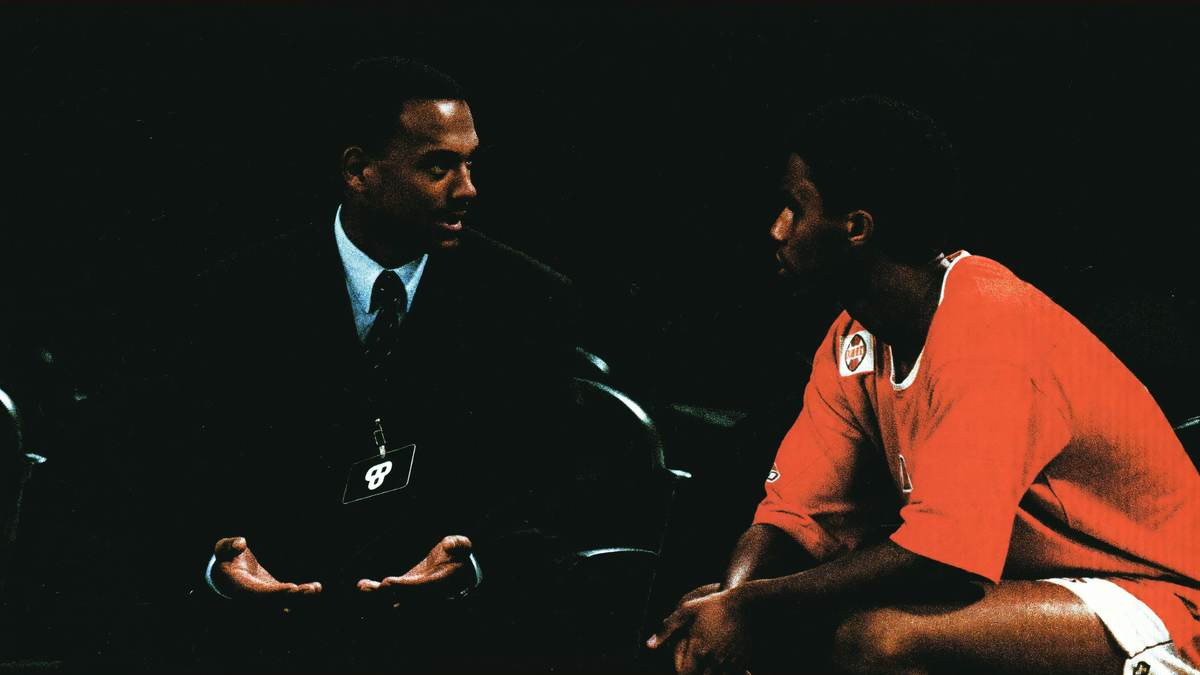
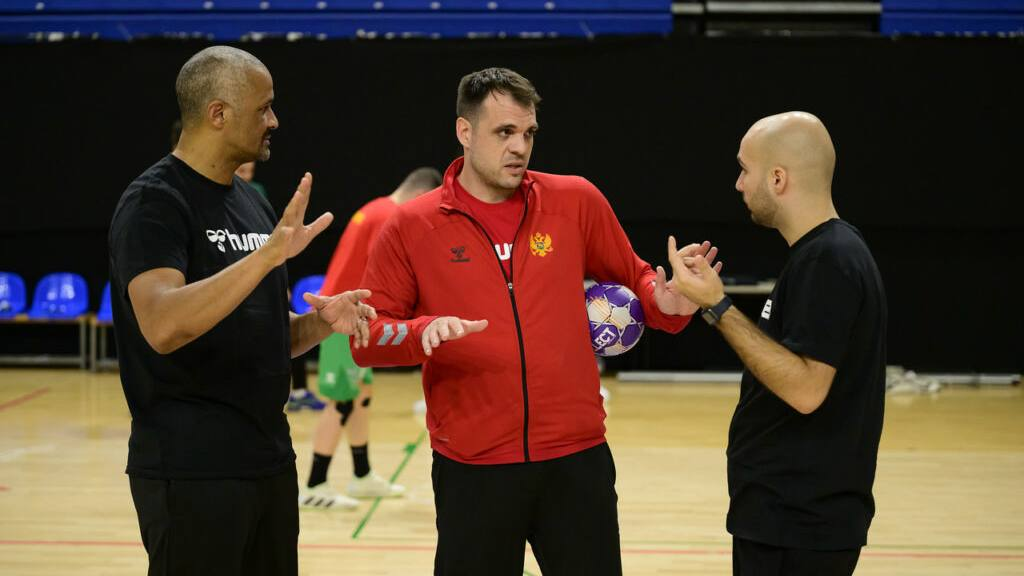
Once fotos reales de handball para los eventos de juego
Aportadas por Diego: el siete metros y la atajada, el arco vacío, el
cruzado (reemplaza a la generada), la charla del brazo de armado, la
convocatoria, la falta táctica, el video de la simulación, la 6-0, la
roja directa y la capitanía. Recortadas a 16:9 y comprimidas (29-71 KB).

Generadas quedan solo las de fuera de la cancha: maternidad, emigrar y
el retiro.

diff --git a/src/ui.js b/src/ui.js
@@ -350,12 +350,23 @@ function choiceCopy(event, choice) {
 // Los momentos grandes tienen su foto (duotono negro y naranja, generadas
 // para el juego). Los demás eventos siguen siendo solo texto: cargan al toque.
 const EVENT_PHOTOS = {
+  // Generadas para el juego (duotono negro y naranja).
   maternidad: "assets/events/maternidad.jpg",
+  emigrar: "assets/events/emigrar.jpg",
+  "ultimo-contrato": "assets/events/retiro.jpg",
+  // Fotos reales de handball aportadas por Diego.
+  "siete-metros": "assets/events/siete-metros.jpg",
+  "siete-metros-parada": "assets/events/siete-metros-parada.jpg",
+  "arquero-al-arco-vacio": "assets/events/arquero-al-arco-vacio.jpg",
   "rotura-ligamento": "assets/events/rotura-ligamento.jpg",
   "brazo-armado": "assets/events/brazo-armado.jpg",
   "brazo-armado-2": "assets/events/brazo-armado.jpg",
-  emigrar: "assets/events/emigrar.jpg",
-  "ultimo-contrato": "assets/events/retiro.jpg",
+  seleccion: "assets/events/seleccion.jpg",
+  "falta-tactica": "assets/events/falta-tactica.jpg",
+  "simular-exclusion": "assets/events/simular-exclusion.jpg",
+  "defensa-6-0": "assets/events/defensa-6-0.jpg",
+  "roja-directa": "assets/events/roja-directa.jpg",
+  capitania: "assets/events/capitania.jpg",
 };
 
 function eventPhoto(event) {
